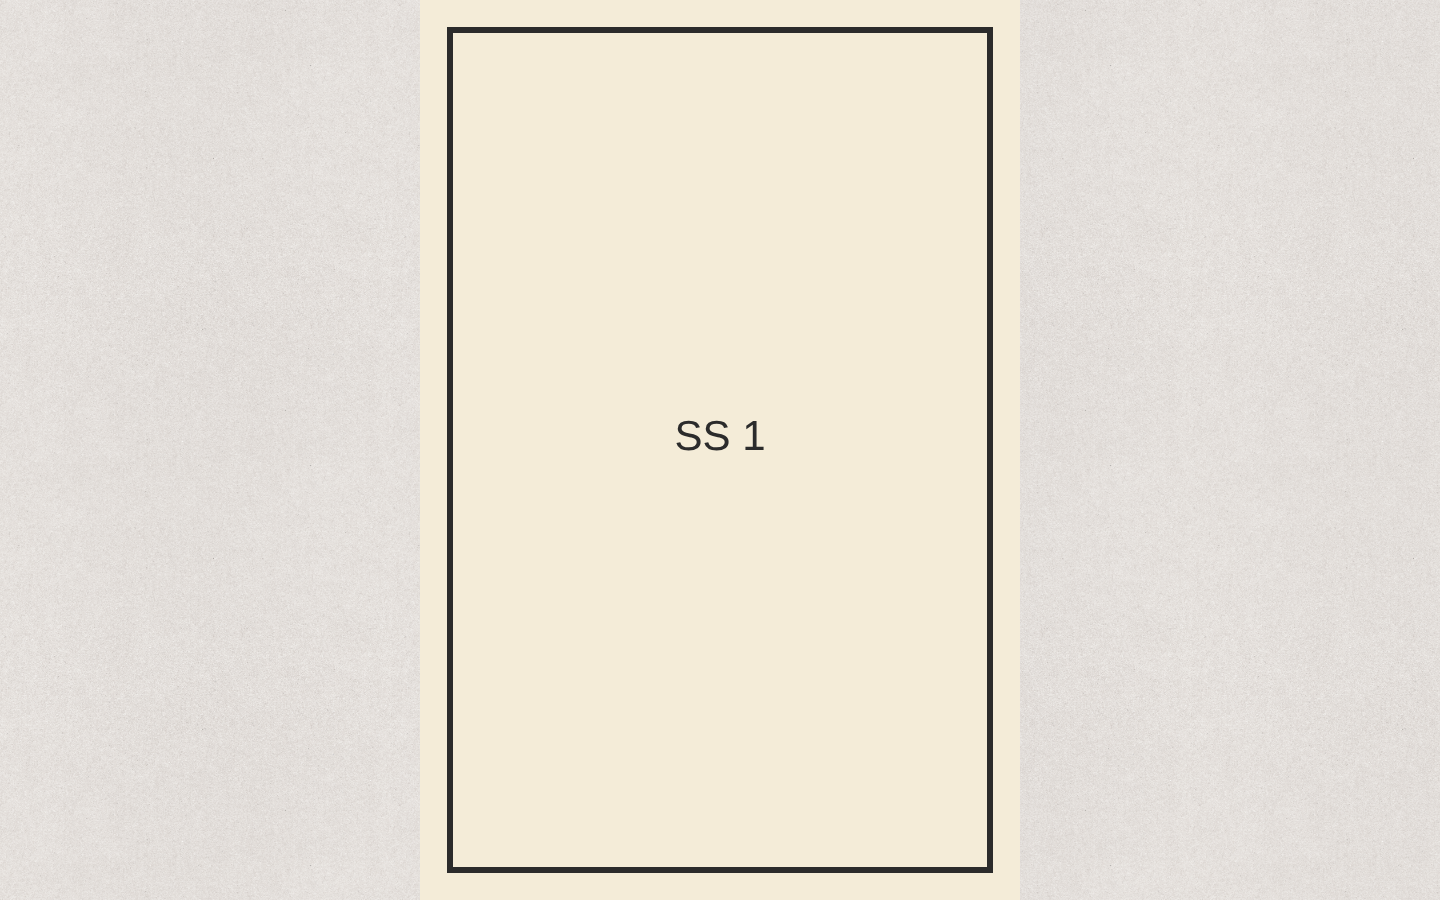
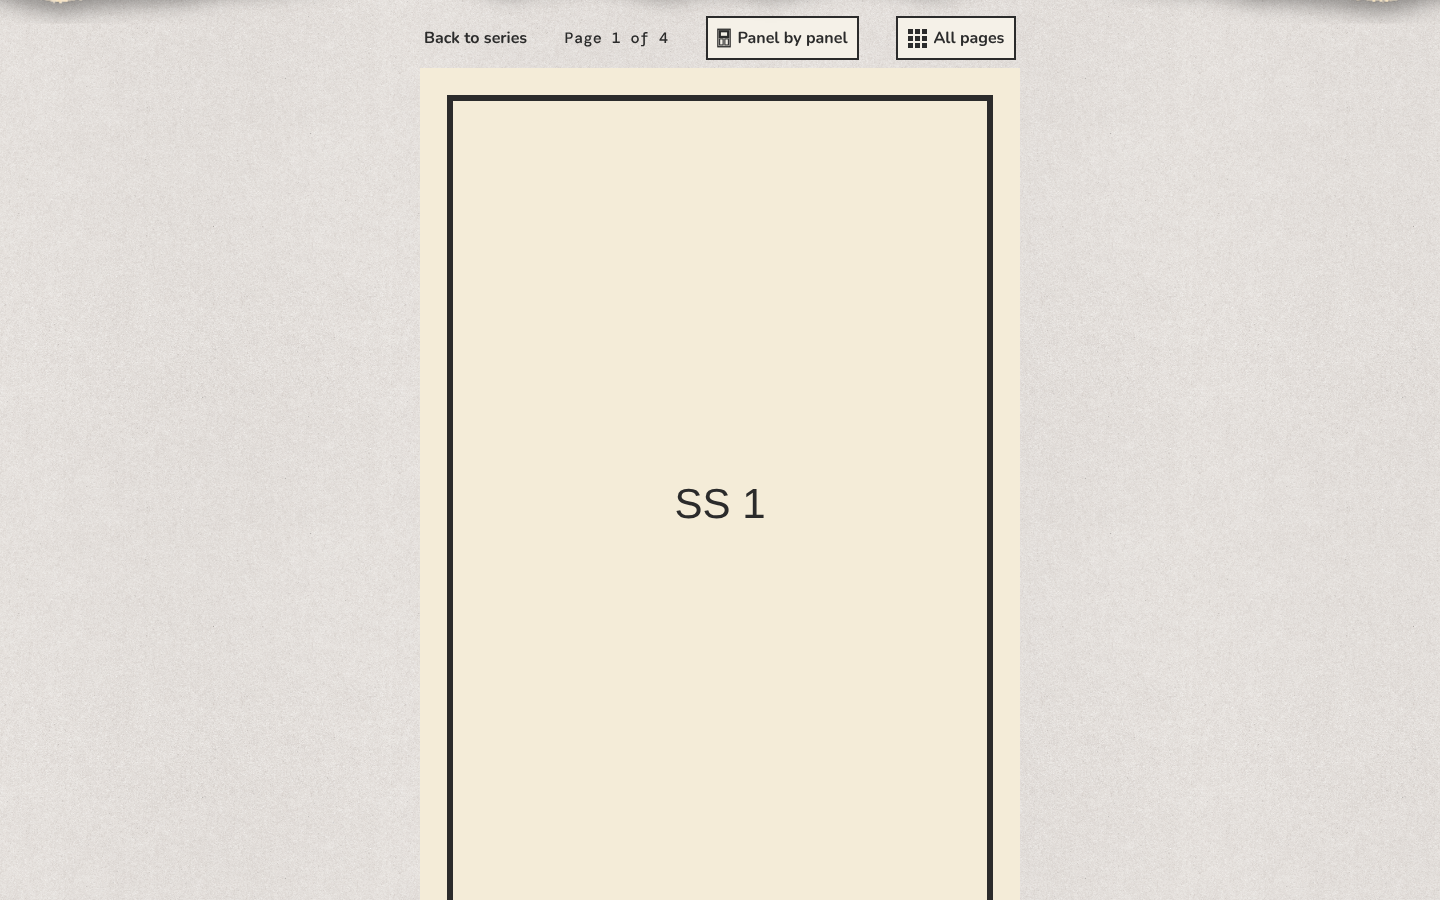
Design mock-ups: pairs in each mode, a fan's page size control, Fit the height at the bar
Claude-Session: https://claude.ai/code/session_01HWRLNSVAoX5Ni8d8XcwJh1

diff --git a/docs/design/mockups/comic-page-width/mockups.html b/docs/design/mockups/comic-page-width/mockups.html
@@ -61,7 +61,7 @@
 </figure>
 
 <figure id="m5">
-  <figcaption>5 · Fit the height<small>The page's height is the window's: 600 × 900. As proposed it opens with its top at the window's top, so Back to series and the page number are a scroll up and the buttons a scroll down (Decisions at review). Below: the whole reader, with the bottom of the window marked as it would be if the page opened at the bar instead.</small></figcaption>
+  <figcaption>5 · Fit the height<small>The page's height is the window's: 600 × 900. It opens at the bar, as now, so the page number shows; the page's bottom 70 px and the buttons are a scroll down. Below: the whole reader, with the bottom of the window marked.</small></figcaption>
   <div class="window"><div class="chrome"><i></i><i></i><i></i><span>kettlebird.com/comics/single-sheets/1/1</span></div><img src="shots/height-1440.png" width="1440" alt=""></div>
   <div class="label">The whole reader</div>
   <div class="window fold"><div class="chrome"><i></i><i></i><i></i><span>kettlebird.com/comics/single-sheets/1/1</span></div><img src="shots/height-1440-full.png" width="1440" alt=""></div>
@@ -86,7 +86,7 @@
       <div class="radio" style="align-items:center"><span class="check"></span><b>Page-flip</b></div><p class="help" style="margin-left:26px">Turn pages with an animation of a page turning over. Off: pages change at once.</p>
       <div class="new" style="margin:14px 0 4px">
         <label>Page size on a computer</label>
-        <p class="help">How big each page shows on a laptop or desktop, one page at a time. Phones and tablets always fit the screen.</p>
+        <p class="help">How big pages show on a laptop or desktop, one at a time or two side by side. Readers on a computer can choose another size for themselves. Phones and tablets always fit the screen.</p>
         <div class="radio"><span class="dot"></span><div><b>Fit the screen</b><p class="help" style="margin:0">The whole page and the buttons show at once, without scrolling, as now. On a 1440 × 900 laptop a page is about 470 pixels wide.</p></div></div>
         <div class="radio"><span class="dot on"></span><div><b>Fit the width</b><p class="help" style="margin:0">Each page shows as wide as its picture, or as Largest page width, narrowed to fit the window. Readers scroll down each page to the buttons.</p></div></div>
         <div class="radio"><span class="dot"></span><div><b>Fit the height</b><p class="help" style="margin:0">Each page's height matches the window's, never wider than its picture or Largest page width. Readers scroll up to Back to series and the page number, and down to the buttons.</p></div></div>
@@ -101,25 +101,8 @@
 </figure>
 
 <figure id="m9">
-  <figcaption>9 · The editor: the notes<small>Left: with Two pages side by side ticked, both settings say they have no effect. Right: a Largest page width outside 400 to 3200, or not a whole number, can't be published.</small></figcaption>
-  <div style="display:flex;gap:24px;align-items:flex-start">
-  <div class="ed" style="width:620px"><div class="top"><span>Open Book</span><span style="display:flex;gap:10px;align-items:center;font-weight:600"><span class="btn">Preview</span><span class="btn" style="background:#2563eb;color:#fff;border-color:#2563eb">Publish</span></span></div><div class="doc">
-    <div class="field" style="border:1px solid #d1d5db;border-radius:6px;padding:12px 14px;background:#fff"><label style="font-size:15px">How it reads</label>
-      <div class="radio" style="align-items:center;margin-top:10px"><span class="check" style="background:#2563eb"></span><b>Two pages side by side</b></div>
-      <div class="radio" style="align-items:center"><span class="check" style="background:#2563eb"></span><b>Page-flip</b></div>
-      <div class="new" style="margin:14px 0 4px">
-        <label>Page size on a computer</label>
-        <p class="help note">Two pages side by side is on for this comic, so this has no effect: pairs fit the screen. Untick it to read one page at a time at this size.</p>
-        <div class="radio"><span class="dot"></span><b>Fit the screen</b></div>
-        <div class="radio"><span class="dot on"></span><b>Fit the width</b></div>
-        <div class="radio"><span class="dot"></span><b>Fit the height</b></div>
-        <label style="margin-top:14px">Largest page width</label>
-        <p class="help note">Two pages side by side is on for this comic, so this has no effect.</p>
-        <div class="input" style="width:160px">1200</div>
-      </div>
-    </div>
-  </div></div>
-  <div class="ed" style="width:420px"><div class="top"><span>Single Sheets</span><span class="btn" style="background:#2563eb;color:#fff;border-color:#2563eb;opacity:.5">Publish</span></div><div class="doc">
+  <figcaption>9 · The editor: the error<small>A Largest page width outside 400 to 3200, or not a whole number, can't be published.</small></figcaption>
+  <div class="ed" style="width:520px"><div class="top"><span>Single Sheets</span><span class="btn" style="background:#2563eb;color:#fff;border-color:#2563eb;opacity:.5">Publish</span></div><div class="doc">
     <div class="field" style="border:1px solid #d1d5db;border-radius:6px;padding:12px 14px;background:#fff">
       <div class="new" style="margin:6px 0 4px">
         <label>Largest page width</label>
@@ -128,7 +111,6 @@
       </div>
     </div>
   </div></div>
-  </div>
 </figure>
 
 <figure id="m10">
@@ -137,6 +119,23 @@
     <div class="window"><div class="chrome"><i></i><i></i><i></i><span>200%</span></div><img src="shots/width-zoom-640.png" width="640" alt=""></div>
     <div class="window"><div class="chrome"><i></i><i></i><i></i><span>1280 × 720</span></div><img src="shots/width-1280-edge.png" width="1280" alt=""></div>
   </div>
+</figure>
+
+<figure id="m11">
+  <figcaption>11 · Two pages side by side (Open Book, a laptop 1440 × 900)<small>Left: Fit the screen, as now. Middle: Fit the width, each page up to its picture's 800 pixels, here narrowed so the pair fits the window (696 each). Right: Fit the height, each page as tall as the window (600 × 900 each), opening at the bar.</small></figcaption>
+  <div style="display:flex;gap:16px;align-items:flex-start">
+    <div class="window"><div class="chrome"><i></i><i></i><i></i><span>Fit the screen</span></div><img src="shots/pairs-today-1440.png" width="480" alt=""></div>
+    <div class="window"><div class="chrome"><i></i><i></i><i></i><span>Fit the width</span></div><img src="shots/pairs-width-1440.png" width="480" alt=""></div>
+    <div class="window"><div class="chrome"><i></i><i></i><i></i><span>Fit the height</span></div><img src="shots/pairs-height-1440.png" width="480" alt=""></div>
+  </div>
+</figure>
+
+<figure id="m12">
+  <figcaption>12 · A fan's page size, on a computer<small>One more button in the bar, Page size, next to Panel by panel. It opens a short list: the comic's choice (the default), or one of the three, kept on this computer for every comic. Phones and tablets don't show it.</small></figcaption>
+  <div class="label">Closed</div>
+  <img src="shots/control-closed.png" width="920" alt="" style="display:block;border:1px dashed #4b5563">
+  <div class="label">Open</div>
+  <img src="shots/control-open.png" width="920" alt="" style="display:block;border:1px dashed #4b5563">
 </figure>
 
 </body>

diff --git a/docs/design/mockups/comic-page-width/proposed.css b/docs/design/mockups/comic-page-width/proposed.css
@@ -58,3 +58,57 @@
   /* "Turn your phone sideways" is for phones. */
   .reader:is(.kb-fit-width, .kb-fit-height) .reader__turn-hint { display: none !important; }
 }
+
+/* Two pages side by side (pairs show on a wide window held sideways, as now): the same modes, the pair's
+   column twice the chapter's widest page. The book's height follows its pages, which meet at the spine. */
+@media (hover: hover) and (pointer: fine) and (min-width: 62.5em) and (orientation: landscape) {
+  html:not(.kb-one-page) .reader.reader--pairs.kb-fit-width {
+    max-width: min(max(calc(var(--kb-col) * 2 + 1rem), 600px), 100%) !important;
+  }
+  html:not(.kb-one-page) .reader.reader--pairs.kb-fit-height {
+    max-width: min(max(calc(min(var(--kb-col), calc(100svh * var(--kb-ratio))) * 2 + 1rem), 600px), 100%) !important;
+  }
+  html:not(.kb-one-page) .reader.reader--pairs:is(.kb-fit-width, .kb-fit-height) .reader__book { height: auto !important; }
+  html:not(.kb-one-page) .reader.reader--pairs:is(.kb-fit-width, .kb-fit-height) .reader__book .reader__page { height: auto !important; }
+  html:not(.kb-one-page) .reader.reader--pairs:is(.kb-fit-width, .kb-fit-height) .reader__page.is-spread { margin-inline: auto !important; }
+  html:not(.kb-one-page) .reader.reader--pairs.kb-fit-width .reader__page.is-spread { width: min(var(--kb-cap), 100%) !important; }
+}
+
+/* A fan's page size (computers only): one button in the bar's tools, opening a short list. */
+.reader__size { display: none; }
+@media (hover: hover) and (pointer: fine) {
+  .reader__size { display: inline-flex; position: relative; order: 2; }
+  .reader__size-button {
+    display: inline-flex;
+    align-items: center;
+    gap: 0.4rem;
+    min-height: 44px;
+    padding: 0.3rem 0.6rem;
+    border: 2px solid var(--color-ink);
+    background: var(--color-beige);
+    font: 700 1rem 'Nunito', sans-serif;
+    color: var(--color-ink);
+    cursor: pointer;
+  }
+  .reader__size-button svg { width: 22px; height: 22px; }
+  .reader__size-menu {
+    position: absolute;
+    top: calc(100% + 6px);
+    right: 0;
+    z-index: 5;
+    min-width: 21rem;
+    margin: 0;
+    padding: 0.5rem 0;
+    border: 2px solid var(--color-ink);
+    background: var(--color-beige);
+    box-shadow: 0 6px 18px rgba(43, 43, 43, 0.25);
+    font: 600 1rem 'Nunito', sans-serif;
+    color: var(--color-ink);
+  }
+  .reader__size-menu label { display: flex; align-items: center; gap: 0.6rem; padding: 0.45rem 0.9rem; cursor: pointer; }
+  .reader__size-menu label:hover { background: rgba(43, 43, 43, 0.06); }
+  .reader__size-menu input { accent-color: var(--color-ink); width: 18px; height: 18px; margin: 0; }
+  .reader__size-menu svg { width: 22px; height: 22px; flex: none; }
+  .reader__size-menu small { display: block; font-weight: 400; font-size: 0.85rem; color: var(--color-ink-light); }
+  .reader__size-menu hr { border: 0; border-top: 1px solid rgba(43, 43, 43, 0.2); margin: 0.35rem 0; }
+}
